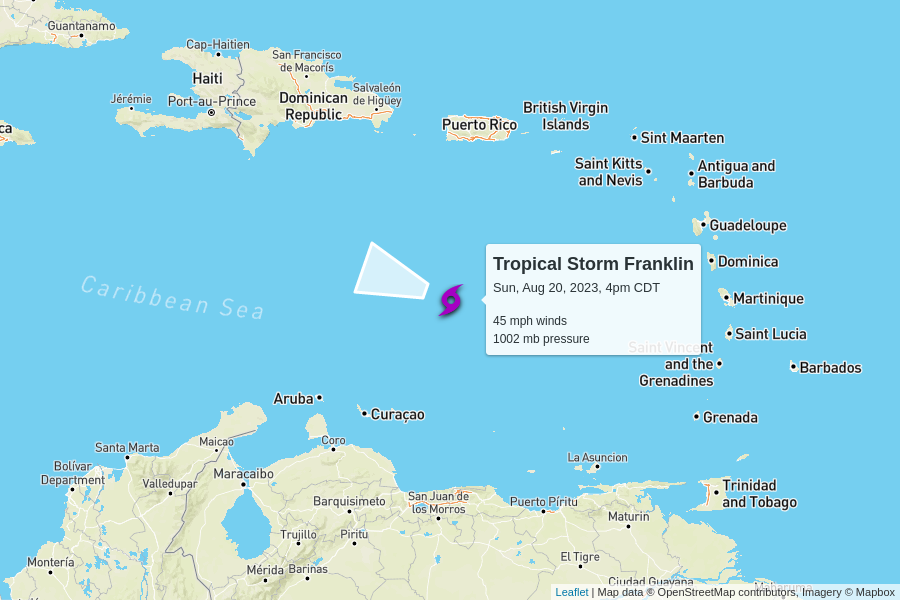
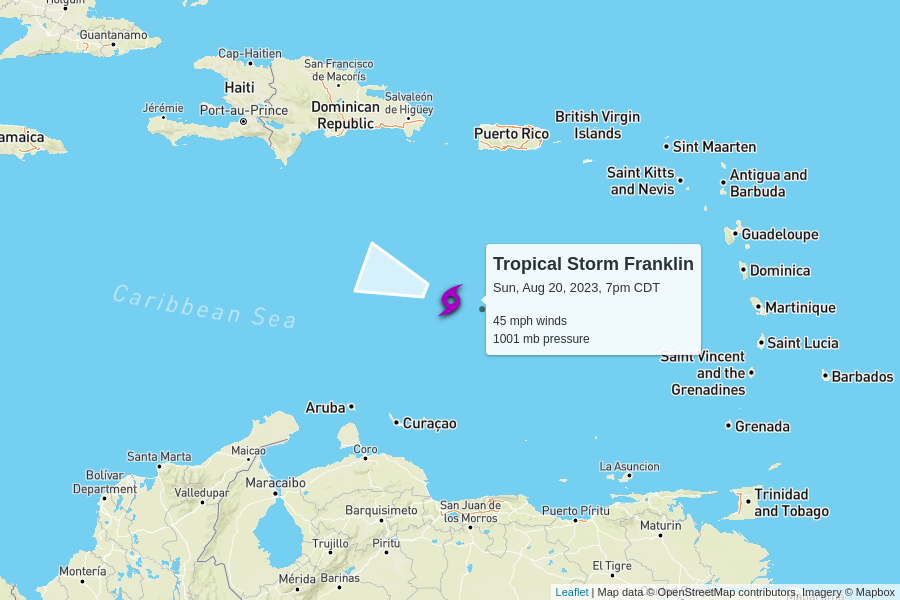
automatic update

diff --git a/docs/index.html b/docs/index.html
@@ -99,6 +99,50 @@
       <tr>
         <td colspan="6" class="storm category-0" >
           <h2>
+            Tropical Storm Franklin
+            <p class="updated">last updated <span data-time>2023-08-21T00:00:00.000Z</span></p>
+          </h2>
+        </td>
+      </tr>
+      
+      <tr>
+        <th class="spacer"></th>
+        <th>wind speed</th>
+        <th>central pressure</th>
+        <th>movement</th>
+        <th>data (CSV)</th>
+        <th>National Hurricane Center</th>
+      </tr>
+      <tr>
+        <td class="spacer"></td>
+        <td>45 mph</td>
+        <td>1001 mb</td>
+        <td>
+          14 mph to the west-northwest
+          <br/>
+          <span style="display: inline-block; font-size: 1.5em; transform: rotate(290deg);">↑</span>
+        </td>
+        <td><a href="https://raw.githubusercontent.com/mgwalker/atlantic-hurricanes/main/data/csv/AL082023.csv">AL082023.csv</a></td>
+        <td><a href="https://www.nhc.noaa.gov/archive/2023/FRANKLIN.shtml?">NHC advisories</a></td>
+      </tr>
+      <tr id="storm_AL082023" >
+        <td class="spacer">
+        <td colspan="5">
+          <figure>
+            <img src="AL082023.png">
+            <figcaption>
+              Map data &copy; <a href="https://www.openstreetmap.org/copyright">OpenStreetMap</a> contributors,
+              Imagery &copy; <a href="https://www.mapbox.com/">Mapbox</a> |
+              <a href="https://www.mapbox.com/map-feedback/" target="_blank">Improve this map</a>
+            </figcaption>
+          </figure>
+        </td>
+      </tr>
+      
+
+      <tr>
+        <td colspan="6" class="storm category-0" >
+          <h2>
             Tropical Depression Six
             <p class="updated">last updated <span data-time>2023-08-20T21:00:00.000Z</span></p>
           </h2>
@@ -174,50 +218,6 @@
         <td colspan="5">
           <figure>
             <img src="AL072023.png">
-            <figcaption>
-              Map data &copy; <a href="https://www.openstreetmap.org/copyright">OpenStreetMap</a> contributors,
-              Imagery &copy; <a href="https://www.mapbox.com/">Mapbox</a> |
-              <a href="https://www.mapbox.com/map-feedback/" target="_blank">Improve this map</a>
-            </figcaption>
-          </figure>
-        </td>
-      </tr>
-      
-
-      <tr>
-        <td colspan="6" class="storm category-0" >
-          <h2>
-            Tropical Storm Franklin
-            <p class="updated">last updated <span data-time>2023-08-20T21:00:00.000Z</span></p>
-          </h2>
-        </td>
-      </tr>
-      
-      <tr>
-        <th class="spacer"></th>
-        <th>wind speed</th>
-        <th>central pressure</th>
-        <th>movement</th>
-        <th>data (CSV)</th>
-        <th>National Hurricane Center</th>
-      </tr>
-      <tr>
-        <td class="spacer"></td>
-        <td>45 mph</td>
-        <td>1002 mb</td>
-        <td>
-          14 mph to the west-northwest
-          <br/>
-          <span style="display: inline-block; font-size: 1.5em; transform: rotate(290deg);">↑</span>
-        </td>
-        <td><a href="https://raw.githubusercontent.com/mgwalker/atlantic-hurricanes/main/data/csv/AL082023.csv">AL082023.csv</a></td>
-        <td><a href="https://www.nhc.noaa.gov/archive/2023/FRANKLIN.shtml?">NHC advisories</a></td>
-      </tr>
-      <tr id="storm_AL082023" >
-        <td class="spacer">
-        <td colspan="5">
-          <figure>
-            <img src="AL082023.png">
             <figcaption>
               Map data &copy; <a href="https://www.openstreetmap.org/copyright">OpenStreetMap</a> contributors,
               Imagery &copy; <a href="https://www.mapbox.com/">Mapbox</a> |
